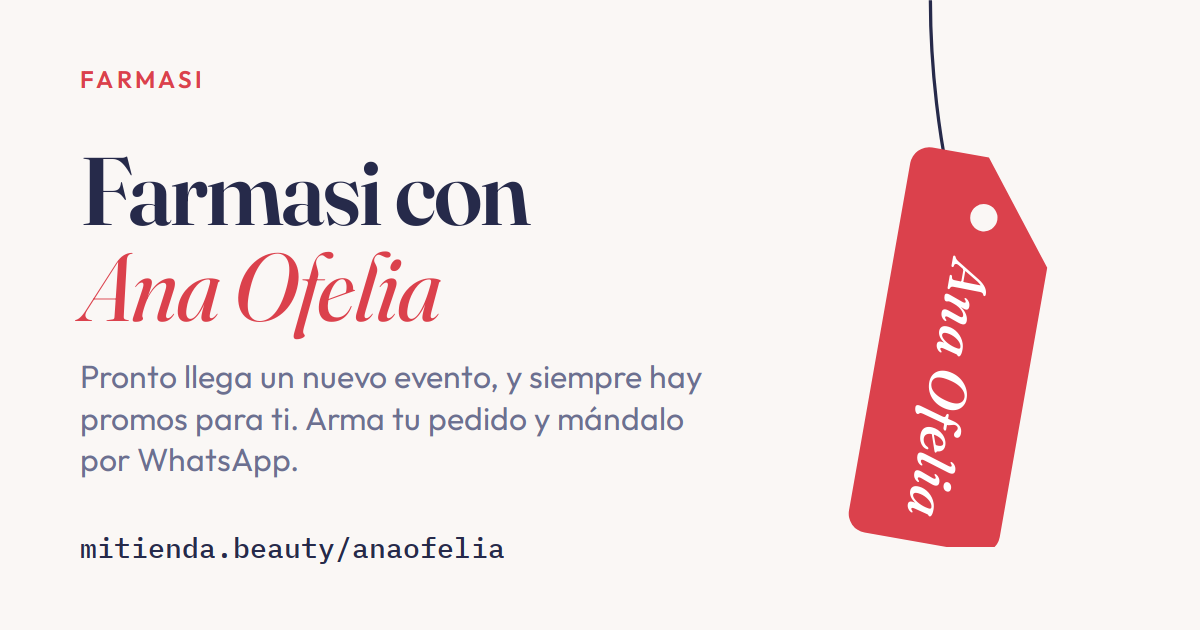
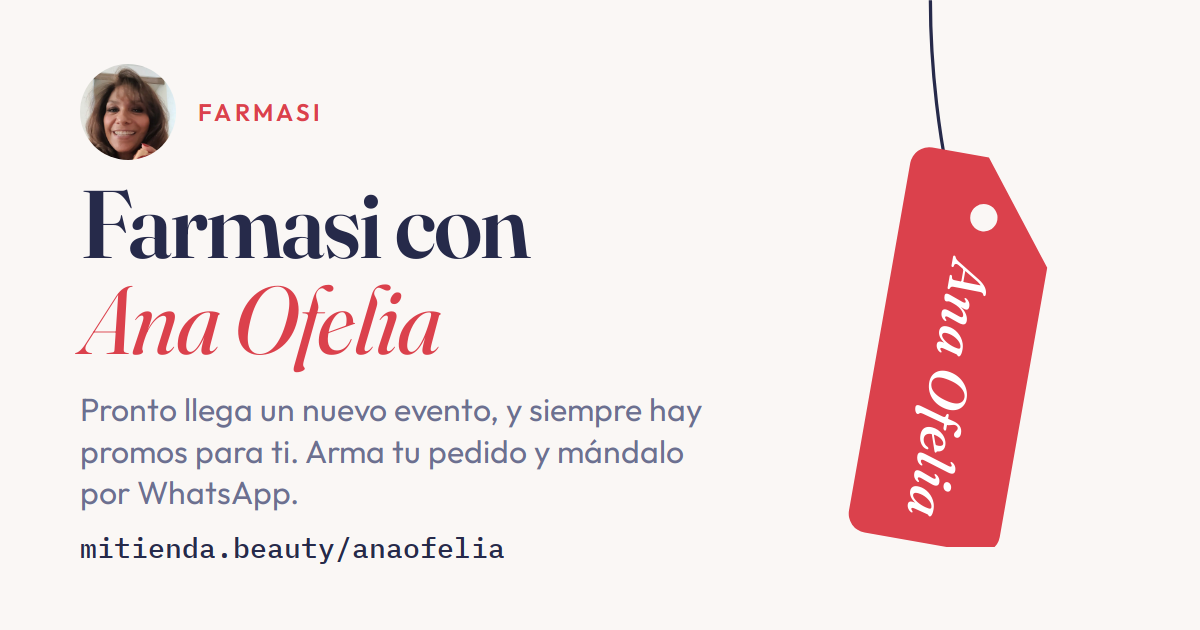
Vistas previas actualizadas (automático)

Changed region(s): [[0.0617, 0.0905, 0.5858, 0.8143]]

diff --git a/anaofelia/index.html b/anaofelia/index.html
@@ -15,11 +15,11 @@
 <meta property="og:type" content="website">
 <meta property="og:locale" content="es_MX">
 <meta property="og:url" content="https://mitienda.beauty/anaofelia/">
-<meta property="og:image" content="https://mitienda.beauty/og/anaofelia.png?v=5091db98">
+<meta property="og:image" content="https://mitienda.beauty/og/anaofelia.png?v=e5353f2e">
 <meta property="og:image:width" content="1200">
 <meta property="og:image:height" content="630">
 <meta name="twitter:card" content="summary_large_image">
-<meta name="twitter:image" content="https://mitienda.beauty/og/anaofelia.png?v=5091db98">
+<meta name="twitter:image" content="https://mitienda.beauty/og/anaofelia.png?v=e5353f2e">
 <link rel="preconnect" href="https://fonts.googleapis.com">
 <link rel="preconnect" href="https://fonts.gstatic.com" crossorigin>
 <link href="https://fonts.googleapis.com/css2?family=IBM+Plex+Mono:wght@400;500;700&family=Outfit:wght@300;400;500;600;700;800&display=swap" rel="stylesheet">
